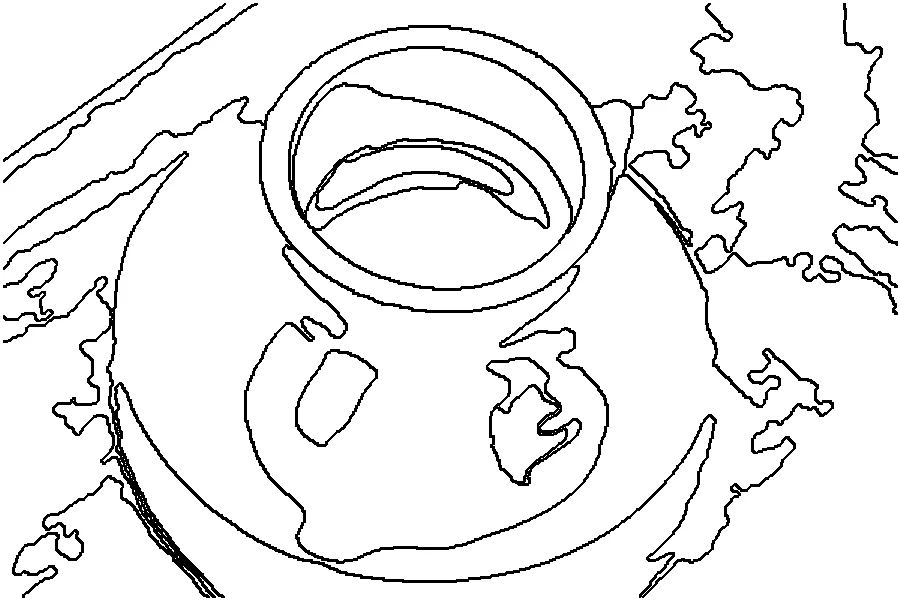
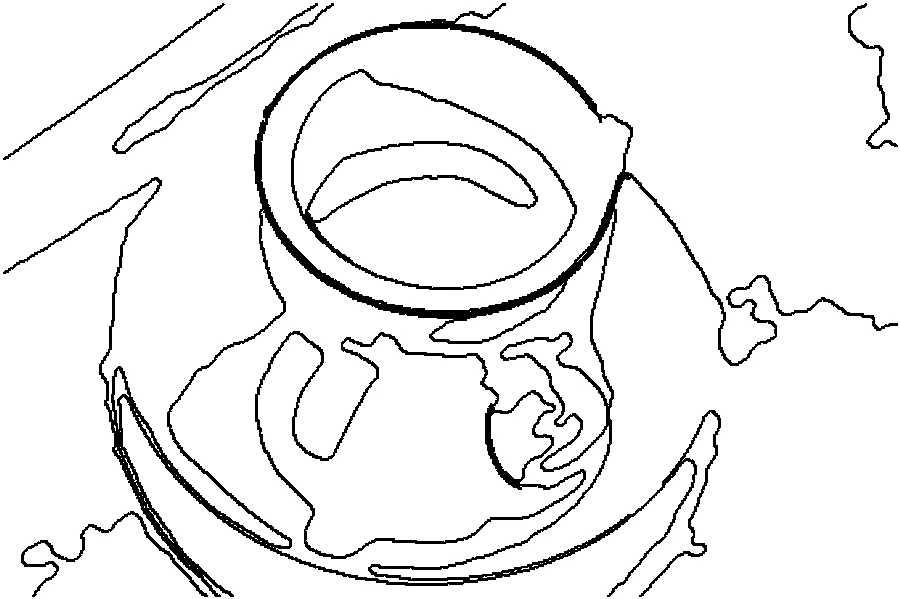
Láminas para colorear más limpias y redirección al dominio propio (#8)
- Conversor foto → lámina: bordes de zona redondeados (filtro de moda 5x5),
  fusión de zonas pequeñas más agresiva y detalles (ojos, boca) por DoG
  descartando trazos sueltos cortos. Corrige que el DoG leyera 3 canales.
- Ejemplos de la web regenerados con el nuevo conversor.
- Con NEXT_PUBLIC_SITE_URL definido, *.vercel.app de producción redirige
  (308) al dominio propio; /api queda fuera para no romper el webhook.

diff --git a/src/lib/coloring/lineart.ts b/src/lib/coloring/lineart.ts
@@ -2,8 +2,10 @@ import sharp, { type Sharp } from "sharp";
 
 /**
  * Conversión determinista de foto a lámina para colorear.
- * Algoritmo: suavizado que conserva bordes → diferencia de gaussianas (DoG) →
- * umbral → limpieza de manchas pequeñas → engrosado de líneas según el estilo.
+ * Algoritmo: suavizado que conserva bordes → zonas de color (k-means) con bordes
+ * redondeados (filtro de moda 5x5) y fusión de zonas pequeñas → detalles (ojos,
+ * boca, pliegues) por diferencia de gaussianas, descartando trazos sueltos cortos →
+ * engrosado de líneas según el estilo.
  * No usa ninguna API externa: coste por imagen ≈ unos cientos de ms de CPU.
  */
 export type ColoringStyle = "infantil" | "sencillo" | "detallado";
@@ -15,18 +17,21 @@ export const STYLES: Record<ColoringStyle, { name: string; description: string }
 };
 
 interface Params {
-  work: number; // lado mayor de la resolución de trabajo
-  median: number; // suavizado previo que conserva bordes
-  colors: number; // zonas de color (k-means)
-  minArea: number; // fracción mínima del área total para una zona
-  edges: number; // umbral DoG para detalles extra (0 = sin detalles)
-  thicken: number; // grosor relativo del trazo (en ‰ del lado mayor de salida)
+  work: number;
+  median: number;
+  colors: number;
+  minArea: number;
+  modeR: number;
+  modePasses: number;
+  edges: number; // umbral DoG (0 = sin detalles)
+  minStroke: number; // fracción del lado mayor: trazos de detalle más cortos se descartan
+  thicken: number;
 }
 
 const PARAMS: Record<ColoringStyle, Params> = {
-  infantil: { work: 480, median: 11, colors: 4, minArea: 0.008, edges: 0, thicken: 3.4 },
-  sencillo: { work: 600, median: 9, colors: 6, minArea: 0.003, edges: 0, thicken: 2.2 },
-  detallado: { work: 800, median: 7, colors: 9, minArea: 0.0011, edges: 0, thicken: 1.3 },
+  infantil: { work: 420, median: 9, colors: 4, minArea: 0.012, modeR: 2, modePasses: 4, edges: 11, minStroke: 0.12, thicken: 3.6 },
+  sencillo: { work: 560, median: 9, colors: 5, minArea: 0.005, modeR: 2, modePasses: 3, edges: 9, minStroke: 0.08, thicken: 2.3 },
+  detallado: { work: 760, median: 7, colors: 7, minArea: 0.002, modeR: 2, modePasses: 2, edges: 7, minStroke: 0.05, thicken: 1.4 },
 };
 
 export class ImageInputError extends Error {}
@@ -117,17 +122,18 @@ function quantize(px: Uint8Array, n: number, k: number): Uint8Array {
   return labels;
 }
 
-/** Filtro de moda 3x3: suaviza los bordes entre zonas. */
-function modeFilter(L: Uint8Array, w: number, h: number, k: number) {
+/** Filtro de moda de radio r: redondea los bordes entre zonas. */
+function modeFilter(L: Uint8Array, w: number, h: number, k: number, r: number) {
   const out = new Uint8Array(L);
   const cnt = new Uint16Array(k);
-  for (let y = 1; y < h - 1; y++)
-    for (let x = 1; x < w - 1; x++) {
+  const need = Math.ceil(((2 * r + 1) ** 2) / 2);
+  for (let y = r; y < h - r; y++)
+    for (let x = r; x < w - r; x++) {
       cnt.fill(0);
-      for (let dy = -1; dy <= 1; dy++) for (let dx = -1; dx <= 1; dx++) cnt[L[(y + dy) * w + x + dx]]++;
+      for (let dy = -r; dy <= r; dy++) { const row = (y + dy) * w + x; for (let dx = -r; dx <= r; dx++) cnt[L[row + dx]]++; }
       let bl = L[y * w + x], bc = 0;
       for (let c = 0; c < k; c++) if (cnt[c] > bc) { bc = cnt[c]; bl = c; }
-      if (bc >= 5) out[y * w + x] = bl;
+      if (bc >= need) out[y * w + x] = bl;
     }
   return out;
 }
@@ -170,8 +176,35 @@ function mergeSmall(L: Uint8Array, w: number, h: number, k: number, minArea: num
   return changed;
 }
 
+/** Quita de la máscara (0 = trazo) los componentes de trazo con menos de minPx píxeles. */
+function dropShortStrokes(mask: Uint8Array, w: number, h: number, minPx: number) {
+  const seen = new Uint8Array(w * h);
+  const stack = new Int32Array(w * h);
+  const members: number[] = [];
+  for (let s = 0; s < w * h; s++) {
+    if (mask[s] !== 0 || seen[s]) continue;
+    let sp = 0;
+    stack[sp++] = s;
+    seen[s] = 1;
+    members.length = 0;
+    while (sp) {
+      const p = stack[--sp];
+      members.push(p);
+      const x = p % w, y = (p - x) / w;
+      for (let dy = -1; dy <= 1; dy++)
+        for (let dx = -1; dx <= 1; dx++) {
+          const nx = x + dx, ny = y + dy;
+          if (nx < 0 || ny < 0 || nx >= w || ny >= h) continue;
+          const q = ny * w + nx;
+          if (mask[q] === 0 && !seen[q]) { seen[q] = 1; stack[sp++] = q; }
+        }
+    }
+    if (members.length < minPx) for (const p of members) mask[p] = 255;
+  }
+}
+
 async function rawGrey(img: Sharp) {
-  const { data, info } = await img.raw().toBuffer({ resolveWithObject: true });
+  const { data, info } = await img.extractChannel(0).raw().toBuffer({ resolveWithObject: true });
   return { data, w: info.width, h: info.height };
 }
 
@@ -181,13 +214,15 @@ async function rawGrey(img: Sharp) {
  */
 export async function toLineArt(input: Buffer, style: ColoringStyle, outSide: number): Promise<Buffer> {
   const P = PARAMS[style];
-  const smooth = sharp(input).rotate().resize(P.work, P.work, { fit: "inside" }).removeAlpha().normalise().median(P.median).median(P.median);
+  const smooth = sharp(input).rotate().resize(P.work, P.work, { fit: "inside" }).removeAlpha().normalise()
+    .median(P.median).median(P.median).median(P.median);
   const { data: rgb, info } = await smooth.clone().raw().toBuffer({ resolveWithObject: true });
   const w = info.width, h = info.height, n = w * h;
   let L = quantize(rgb, n, P.colors);
-  for (let i = 0; i < 3; i++) L = modeFilter(L, w, h, P.colors);
+  for (let i = 0; i < P.modePasses; i++) L = modeFilter(L, w, h, P.colors, P.modeR);
   const minArea = Math.max(12, Math.round(n * P.minArea));
-  for (let i = 0; i < 4 && mergeSmall(L, w, h, P.colors, minArea); i++);
+  for (let i = 0; i < 5 && mergeSmall(L, w, h, P.colors, minArea); i++);
+  for (let i = 0; i < 2; i++) L = modeFilter(L, w, h, P.colors, 1);
 
   const out = Buffer.alloc(n, 255);
   for (let y = 0; y < h; y++)
@@ -195,12 +230,15 @@ export async function toLineArt(input: Buffer, style: ColoringStyle, outSide: nu
       const p = y * w + x;
       if ((x < w - 1 && L[p] !== L[p + 1]) || (y < h - 1 && L[p] !== L[p + w])) out[p] = 0;
     }
+
   if (P.edges) {
     const pre = await smooth.clone().greyscale().png().toBuffer();
-    const [a, b] = await Promise.all([rawGrey(sharp(pre).blur(1.0)), rawGrey(sharp(pre).blur(2.2))]);
-    for (let i = 0; i < n; i++) if (b.data[i] - a.data[i] > P.edges) out[i] = 0;
+    const [a, b] = await Promise.all([rawGrey(sharp(pre).blur(1.2)), rawGrey(sharp(pre).blur(2.6))]);
+    const det = new Uint8Array(n).fill(255);
+    for (let i = 0; i < n; i++) if (b.data[i] - a.data[i] > P.edges) det[i] = 0;
+    dropShortStrokes(det, w, h, Math.round(Math.max(w, h) * P.minStroke));
+    for (let i = 0; i < n; i++) if (det[i] === 0) out[i] = 0;
   }
-  // Marco limpio
   for (let y = 0; y < h; y++) for (let x = 0; x < w; x++) if (x < 2 || y < 2 || x >= w - 2 || y >= h - 2) out[y * w + x] = 255;
 
   const scale = outSide / Math.max(w, h);

diff --git a/next.config.ts b/next.config.ts
@@ -19,6 +19,23 @@ const nextConfig: NextConfig = {
   images: {
     formats: ["image/avif", "image/webp"],
   },
+  /**
+   * Con dominio propio (NEXT_PUBLIC_SITE_URL), la dirección *.vercel.app de producción
+   * redirige al dominio para que Google solo indexe una versión. /api queda fuera:
+   * el webhook de Stripe y las descargas no deben recibir redirecciones.
+   */
+  async redirects() {
+    const site = process.env.NEXT_PUBLIC_SITE_URL?.replace(/\/$/, "");
+    if (process.env.VERCEL_ENV !== "production" || !site || site.includes(".vercel.app")) return [];
+    return [
+      {
+        source: "/:path((?!api/).*)",
+        has: [{ type: "host", value: "(?<sub>.+)\\.vercel\\.app" }],
+        destination: `${site}/:path`,
+        permanent: true,
+      },
+    ];
+  },
   async headers() {
     return [
       {
